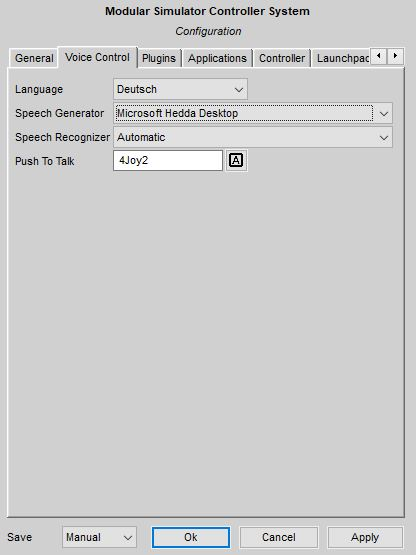
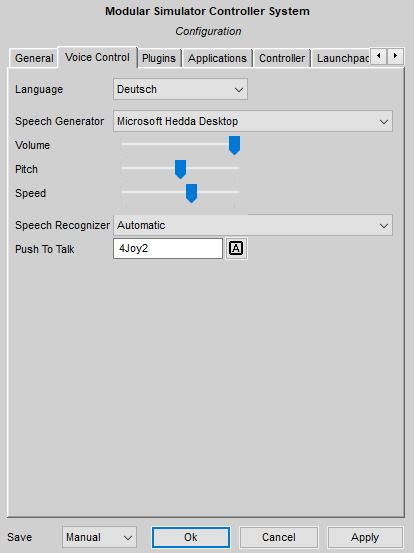
Voice Control Enhancements

Changed region(s): [[0.0, 0.0, 0.9855, 1.0], [0.029, 0.3996, 0.6087, 0.4919], [0.029, 0.3382, 0.1159, 0.3689]]

diff --git a/Docs/Releases.md b/Docs/Releases.md
@@ -2,9 +2,10 @@
   
   1. Bugfixes, as always
   2. Documentation updates, as always
-  3. With the completion of the weather trend analysis, the capability to change tyre compounds depending on several conditions and almost 500 rules in the AI kernel, Jona is now feature complete and no longer considered to be in alpha stage. I still advise you to be cautious, especially during important races, and always double check Jonas recommendations, but I do use it during league races and the recommendations had been spot on so far. As always, take a look at the [updated documentation](https://github.com/SeriousOldMan/Simulator-Controller/wiki/Virtual-Race-Engineer#how-it-works) and especially on the [settings](https://github.com/SeriousOldMan/Simulator-Controller/wiki/Virtual-Race-Engineer#race-engineer-settings) required for Jona.
+  3. With the completion of the weather trend analysis, the capability to change tyre compounds depending on several conditions and almost 500 rules in the AI kernel, Jona is now feature complete and no longer considered to be in alpha stage. I still advise you to be cautious, especially during important races, and always double check Jonas recommendations, but I do use it during league races and the recommendations had been spot on so far. As always, take a look at the [updated documentation](https://github.com/SeriousOldMan/Simulator-Controller/wiki/Virtual-Race-Engineer#how-it-works) and especially on the [settings](https://github.com/SeriousOldMan/Simulator-Controller/wiki/Virtual-Race-Engineer#race-engineer-settings) required for Jona
   4. A new plugin argument for the *Assetto Corsa Competizione* plugin allows you to open the race engineer settings dialog from your hardware controller
   5. The support for multiple Button Boxes has been extended, including new capabilities in the [configuration tool](https://github.com/SeriousOldMan/Simulator-Controller/wiki/Installation-&-Configuration#configuration)
+  6. Volume, pitch and speed settings has been added to the voice control configuration to customize the voice output to your taste
   
   As with all releases since Release 2.0, automated update procedures take care of your local configuration database. But there might be additional installation steps or preparations required, which are described in the documentation about the [Release 2.5.4 update requirements](https://github.com/SeriousOldMan/Simulator-Controller/wiki/Update-Notes#release-254).
   

diff --git a/Docs/Installation & Configuration.md b/Docs/Installation & Configuration.md
@@ -56,7 +56,7 @@ On this tab, you can configure the voice control support of Simulator Controller
 
 ![](https://github.com/SeriousOldMan/Simulator-Controller/blob/main/Docs/Images/Configuration%20Tab%207.JPG)
 
-You can define the language you want to use for voice generation and recognition with the first dropdown menu. Beside that, you can choose the concrete voice to be used for voice generation and also the voice recognizer language with the second and third dropdown menu. Be careful, a mismatch between chosen language and the selected voice and/or recognizer will give you very funny results. Generally, I recommend to use the "Automatic" setting for both and let Simulator Controller decide which is the best voice and the best recognizer for your current selected language. If more than one voice is available for voice generation, each time one is selected randomly, thereby providing some variety.
+You can define the spoken language you want to use for voice generation and recognition with the first dropdown menu. Beside that, you can choose the concrete voice to be used for voice generation and also the voice recognizer language with the respectivly labeled dropdown menus. Be careful, a mismatch between chosen language and the selected voice and/or recognizer will give you very funny results. Generally, I recommend to use the "Automatic" setting for both and let Simulator Controller decide which is the best voice and the best recognizer for your current selected language. If more than one voice is available for voice generation, each time one is selected randomly, thereby providing some variety. For voice output you can set the volume, the pitch and the speed (rate) using the three corresponding sliders.
 
 With the last option, you can configure a *Push To Talk* function for voice recognition, which will greatly enhance the voice recognition quality and will avoid almost all false positives, if you are not in a very quite environment. The argument to be entered in the field is a key code as defined in the AutoHotkey [key list](https://www.autohotkey.com/docs/KeyList.htm). For example, "LControl" defines the left control key on the keyboard, whereas "4Joy2" defines the second button on your 4th connected hardware controller.
 
